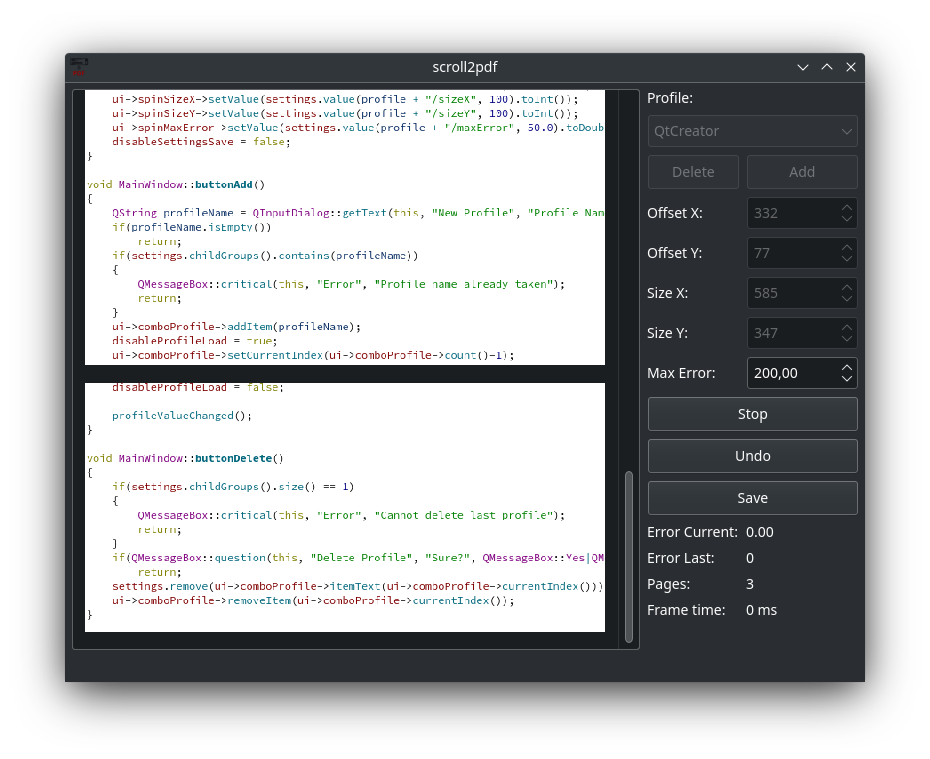
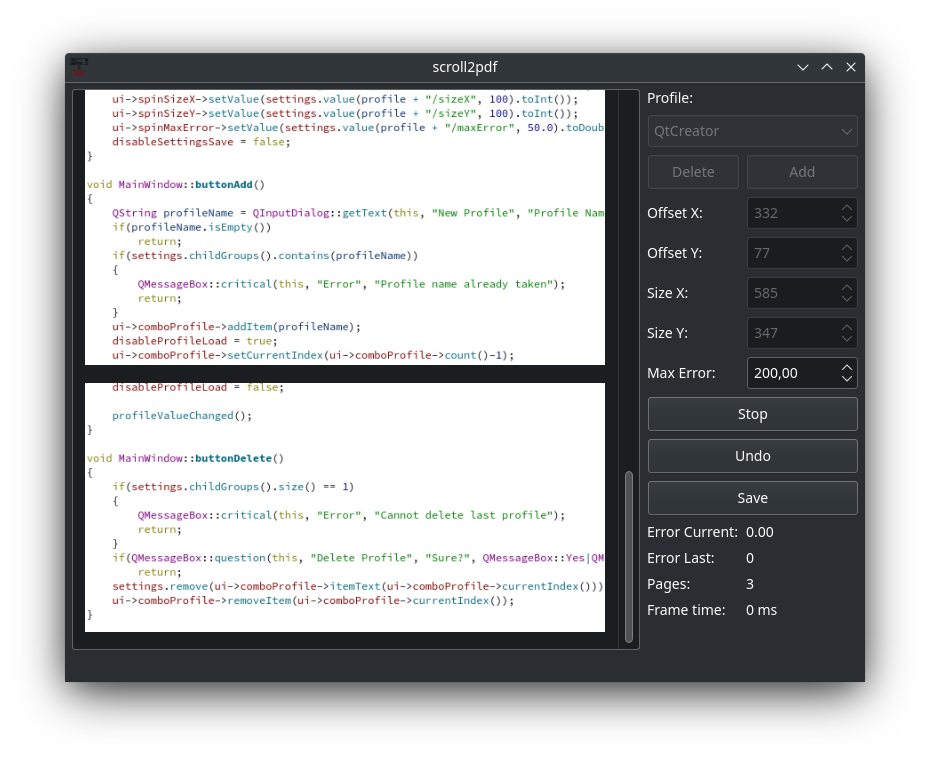
Set smoth transformation for pixmapItems to get a nicer preview

diff --git a/mainwindow.cpp b/mainwindow.cpp
@@ -260,11 +260,13 @@ void MainWindow::updateScene()
     scene.clear();
     lastPage = new QGraphicsPixmapItem();
     lastPage->setOffset(0, 0);
+    lastPage->setTransformationMode(Qt::SmoothTransformation);
     scene.addItem(lastPage);
     int totalPixelLength = 0;
     for(int i = 0; i < state.pages.size(); i++)
     {
         QGraphicsPixmapItem *item = new QGraphicsPixmapItem(QPixmap::fromImage(state.pages[i]));
+        item->setTransformationMode(Qt::SmoothTransformation);
         item->setOffset(0, totalPixelLength);
         scene.addItem(item);
         totalPixelLength += state.pages[i].height() + 20;
@@ -355,6 +357,7 @@ void MainWindow::buttonStart()
         scene.clear();
         lastPage = new QGraphicsPixmapItem();
         lastPage->setOffset(0, 0);
+        lastPage->setTransformationMode(Qt::SmoothTransformation);
         scene.addItem(lastPage);
         ui->view->verticalScrollBar()->setValue(ui->view->verticalScrollBar()->minimum());
     }
